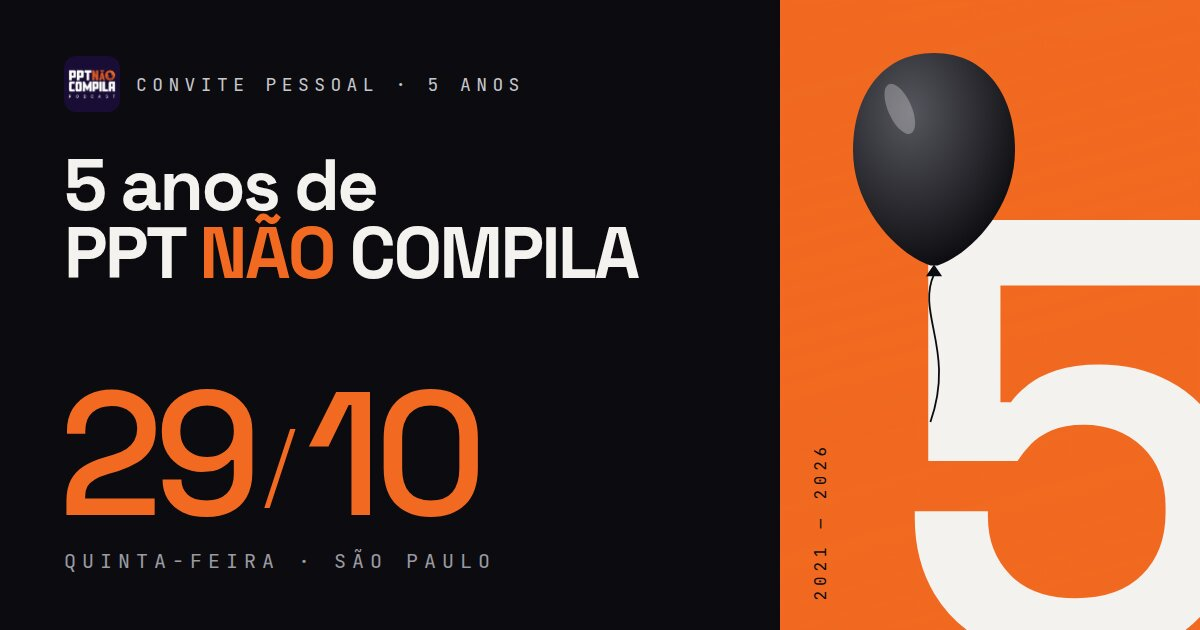
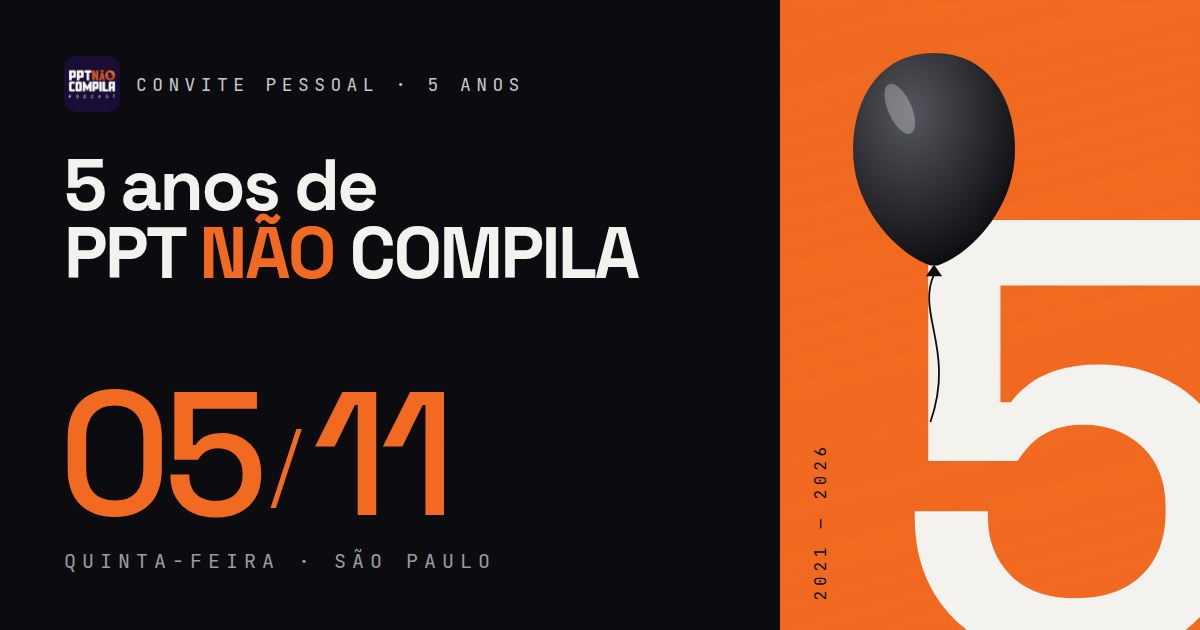
feat(hotsite-5a): evento reagendado de 29/10 para 05/11
Data centralizada em EVENTO (content.ts): flyer, A noite, .ics (19h–23h BRT),
textos de confirmado/bloco final ('dia 5'), tela restrita e metadados OG.
og.jpg re-renderizado do quadro 13 com 05/11, com ?v=0511 para furar o cache
de prévia do WhatsApp.

Claude-Session: https://claude.ai/code/session_01UxQtEVRYoVKYFqG6JaMjiC

Changed region(s): [[0.0308, 0.6032, 0.4008, 0.8444]]

diff --git a/apps/hotsite-5a/src/lib/textos.ts b/apps/hotsite-5a/src/lib/textos.ts
@@ -1,4 +1,5 @@
 import type { ConviteAberto } from "./convite";
+import { EVENTO } from "./content";
 
 /**
  * Textos que mudam entre convidado nominal e cota de patrocinador.
@@ -29,12 +30,12 @@ export function textosPara(c: Pick<ConviteAberto, "cota" | "patrocinador" | "pri
       rotulo: `Convite ${c.patrocinador ?? ""} · 5 anos`.replace(/\s+/g, " "),
       titulo: "Um convite para você",
       frase: "O PPT Não Compila faz cinco anos. Queremos comemorar com você.",
-      confirmado: "Te esperamos no dia 29. Seu nome já está na lista.",
+      confirmado: `Te esperamos no dia ${EVENTO.diaFrase}. Seu nome já está na lista.`,
       recusouTitulo: "Que pena.",
       sheetTitulo: "Tem certeza?",
       sheetFrase: "Se der para ajustar a agenda, a gente vai gostar muito de te ver lá.",
       finalPergunta: "Te vejo lá?",
-      finalConfirmado: "Até dia 29.",
+      finalConfirmado: `Até dia ${EVENTO.diaFrase}.`,
       nota: "Em cinco anos, o PPT Não Compila virou o que é por causa de quem dividiu com a gente suas histórias. Essa noite é para celebrar, e vai ser um prazer ter você lá.",
     };
   }
@@ -44,12 +45,12 @@ export function textosPara(c: Pick<ConviteAberto, "cota" | "patrocinador" | "pri
     rotulo: "Convite pessoal · 5 anos",
     titulo: null,
     frase: "Você faz parte dos cinco anos do PPT Não Compila. Queremos comemorar com você.",
-    confirmado: `Te esperamos no dia 29, ${n}. Seu nome já está na lista.`,
+    confirmado: `Te esperamos no dia ${EVENTO.diaFrase}, ${n}. Seu nome já está na lista.`,
     recusouTitulo: `Que pena, ${n}.`,
     sheetTitulo: `Tem certeza, ${n}?`,
     sheetFrase: "A noite foi pensada para quem fez parte desses cinco anos. Se der para ajustar a agenda, a gente vai gostar muito de te ver lá.",
     finalPergunta: `Te vejo lá, ${n}?`,
-    finalConfirmado: `Até dia 29, ${n}.`,
+    finalConfirmado: `Até dia ${EVENTO.diaFrase}, ${n}.`,
     nota: `${n}, em cinco anos o PPT Não Compila virou o que é por causa de quem topou dividir com a gente suas histórias e o que aprendeu no caminho. Essa noite é para agradecer pessoalmente. Conto com você lá.`,
   };
 }

diff --git a/apps/hotsite-5a/src/lib/content.ts b/apps/hotsite-5a/src/lib/content.ts
@@ -4,9 +4,12 @@
  * números atuais, programação, apoiadores, foto e nota finais (Wellington).
  */
 export const EVENTO = {
-  dataCurta: "29/10",
-  dia: "29",
-  mes: "10",
+  // Reagendado de 29/10 para 05/11 (Wellington, 2026-10-08).
+  dataCurta: "05/11",
+  dia: "05",
+  mes: "11",
+  /** Dia por extenso nas frases ("Te esperamos no dia 5"). */
+  diaFrase: "5",
   diaSemana: "Quinta-feira",
   diaSemanaCurto: "Qui",
   horario: "19h",
@@ -16,8 +19,8 @@ export const EVENTO = {
   cidade: "São Paulo",
   uf: "SP",
   // .ics: 19h–23h em São Paulo (UTC-3, sem horário de verão)
-  icsInicio: "20261029T220000Z",
-  icsFim: "20261030T020000Z",
+  icsInicio: "20261105T220000Z",
+  icsFim: "20261106T020000Z",
 } as const;
 
 export const NUMEROS = {
@@ -32,7 +35,7 @@ export const NUMEROS = {
 
 export const NOITE = [
   { n: "01", t: "Happy hour", d: "Comida, bebida e tempo de sobra para conversar com quem vive os mesmos desafios que você." },
-  { n: "02", t: "Quinta, 29/10", d: "A partir das 19h, no início da noite, em São Paulo." },
+  { n: "02", t: "Quinta, 05/11", d: "A partir das 19h, no início da noite, em São Paulo." },
   { n: "03", t: "Vila Nova Conceição, SP", d: "Rua Bastos Pereira, 25." },
   { n: "04", t: "Entre pares", d: "Uma sala só com quem fez parte da história do podcast." },
 ];

diff --git a/apps/hotsite-5a/src/app/layout.tsx b/apps/hotsite-5a/src/app/layout.tsx
@@ -11,16 +11,16 @@ const baseUrl = process.env.HOTSITE_BASE_URL || "https://5anos.pptnaocompila.com
 export const metadata: Metadata = {
   metadataBase: new URL(baseUrl),
   title: "5 anos de PPT Não Compila",
-  description: "Convite pessoal · 29/10 · Quinta-feira · São Paulo",
+  description: "Convite pessoal · 05/11 · Quinta-feira · São Paulo",
   robots: { index: false, follow: false },
   openGraph: {
     title: "5 anos de PPT Não Compila",
-    description: "Convite pessoal · 29/10 · Quinta-feira · São Paulo",
-    images: [{ url: "/og.jpg", width: 1200, height: 630, alt: "5 anos de PPT Não Compila · 29/10" }],
+    description: "Convite pessoal · 05/11 · Quinta-feira · São Paulo",
+    images: [{ url: "/og.jpg?v=0511", width: 1200, height: 630, alt: "5 anos de PPT Não Compila · 05/11" }],
     type: "website",
     locale: "pt_BR",
   },
-  twitter: { card: "summary_large_image", images: ["/og.jpg"] },
+  twitter: { card: "summary_large_image", images: ["/og.jpg?v=0511"] },
 };
 
 export const viewport: Viewport = { themeColor: "#0C0C10", width: "device-width", initialScale: 1 };

diff --git a/apps/hotsite-5a/src/components/ui.tsx b/apps/hotsite-5a/src/components/ui.tsx
@@ -1,4 +1,5 @@
 import type { CSSProperties, ReactNode } from "react";
+import { EVENTO } from "@/lib/content";
 
 export const MONO = "var(--font-mono), monospace";
 export const SANS = "var(--font-grotesk), sans-serif";
@@ -50,13 +51,13 @@ export function BalaoSvg({ style, fill = "var(--accent)", stroke = 3, brilho = f
   );
 }
 
-/** 29/10 no estilo do flyer. */
+/** Data do evento no estilo do flyer (EVENTO.dia/EVENTO.mes). */
 export function Data({ size, style }: { size: number | string; style?: CSSProperties }) {
   return (
     <div style={{ fontWeight: 500, fontSize: size, lineHeight: 0.86, letterSpacing: "-0.05em", display: "flex", alignItems: "baseline", ...style }}>
-      <span>29</span>
+      <span>{EVENTO.dia}</span>
       <span style={{ fontSize: ".5em", fontWeight: 300, letterSpacing: 0, margin: "0 .12em", transform: "translateY(-.28em)" }}>/</span>
-      <span>10</span>
+      <span>{EVENTO.mes}</span>
     </div>
   );
 }

diff --git a/apps/hotsite-5a/src/components/restrito.tsx b/apps/hotsite-5a/src/components/restrito.tsx
@@ -6,6 +6,7 @@ import { normalizarCodigo } from "@/lib/guests/codigo";
 import type { ConviteRestrito } from "@/lib/convite";
 import { BalaoSvg, ErroInline, mono, Selo, Spinner } from "./ui";
 import { ListaEspera } from "./lista-espera";
+import { EVENTO } from "@/lib/content";
 
 /** Telas 8 e 9: acesso restrito (campo vazio / código inválido). */
 export function Restrito({ view }: { view: ConviteRestrito }) {
@@ -79,7 +80,7 @@ export function Restrito({ view }: { view: ConviteRestrito }) {
         </form>
         <ListaEspera />
         <div style={{ ...mono(12, { color: "var(--muted)" }), marginTop: 72, paddingTop: 20, borderTop: "1px solid var(--line)" }}>
-          29/10 · Quinta-feira · São Paulo
+          {EVENTO.dataCurta} · {EVENTO.diaSemana} · {EVENTO.cidade}
         </div>
       </div>
     </section>
